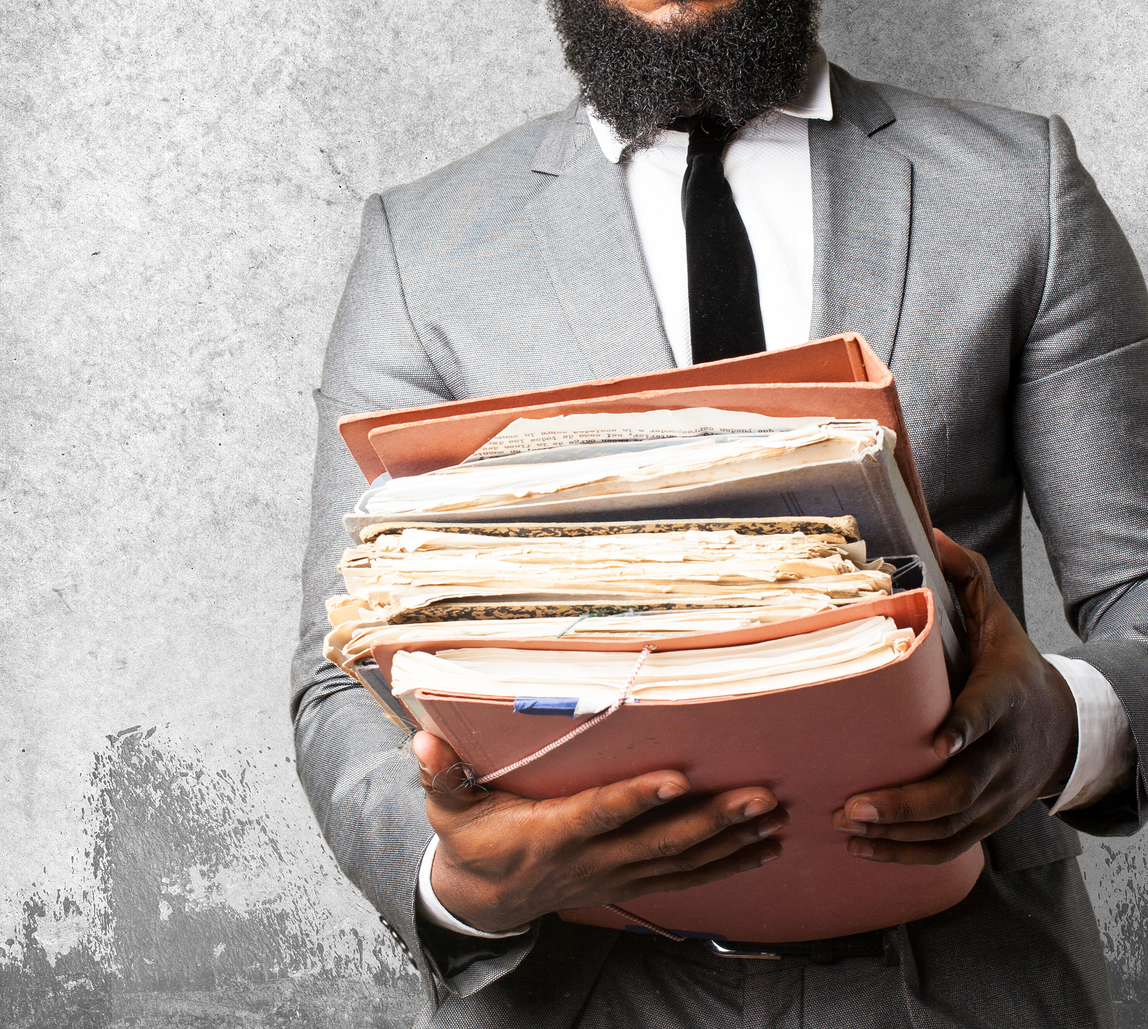
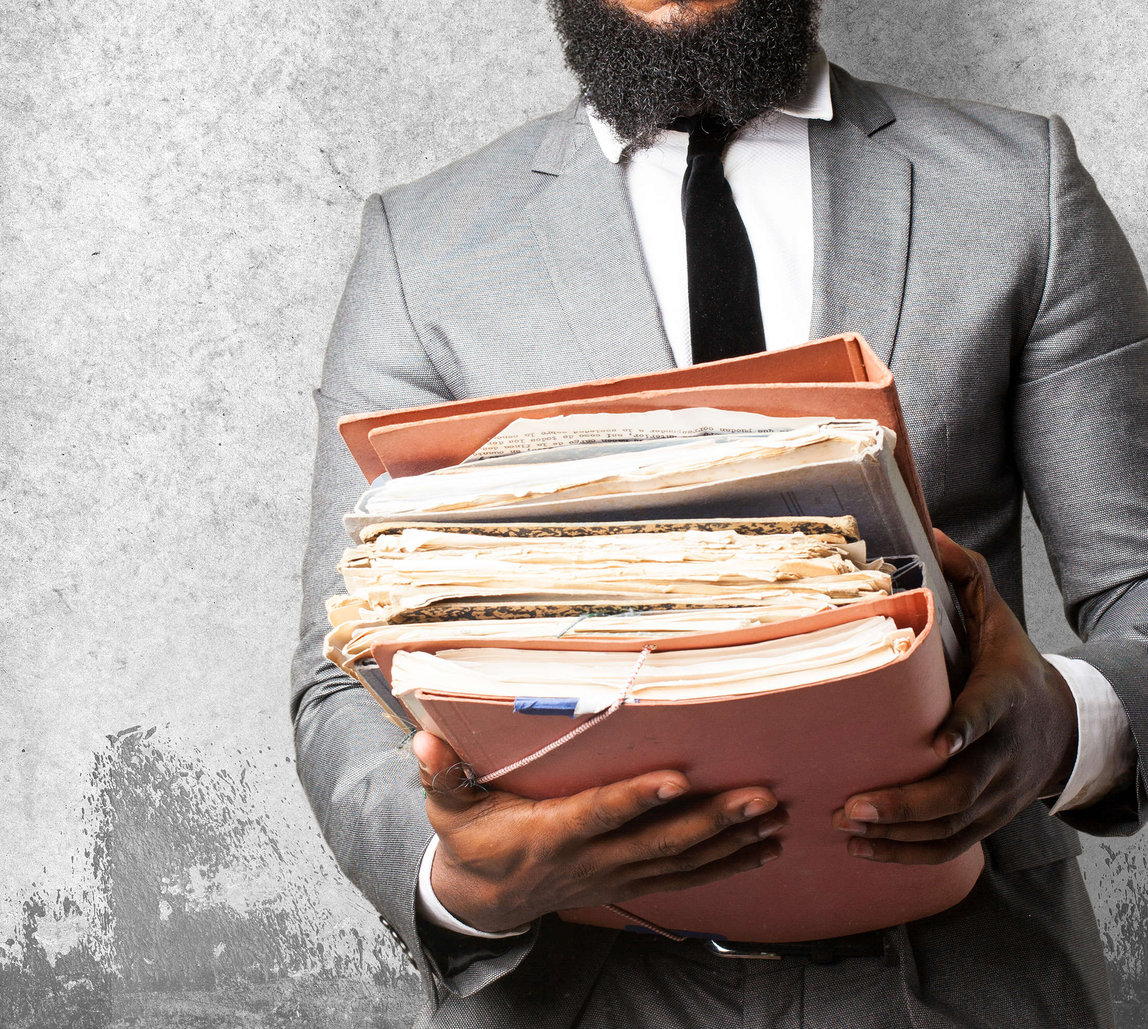
images processing was added

diff --git a/content/ua/blog/post-2.md b/content/ua/blog/post-2.md
@@ -2,9 +2,10 @@
 title: Стримування DDoS атак для краудфандингової ініціативи Canadian Bayraktar
 url: '/ua/blog/DDoS-attack-mitigation-for-Canadian-Bayraktar-crowdfunding-initiative'
 omit_header_text: false
-featured_image: '/blog-images/post-2-banner-5.png'
+featured_image: '/blog-images/post-2-banner.png'
 summary_image: '/blog-images/post-2-short.jpeg'
-date_prefix: 'Опубліковано #'
+alt: 'ілюстрація з Стримування DDoS атак для краудфандингової ініціативи Canadian Bayraktar'
+img_render_class: img-width-contain
 date: 2022-08-01
 
 ---

diff --git a/content/en/blog/post-2.md b/content/en/blog/post-2.md
@@ -2,9 +2,10 @@
 title: DDoS attack mitigation for Canadian Bayraktar crowdfunding initiative
 url: '/blog/DDoS-attack-mitigation-for-Canadian-Bayraktar-crowdfunding-initiative'
 omit_header_text: false
-featured_image: '/blog-images/post-2-banner-5.png'
+featured_image: '/blog-images/post-2-banner.png'
 summary_image: '/blog-images/post-2-short.jpeg'
-date_prefix: 'Published #'
+alt: 'image from DDoS attack mitigation for Canadian Bayraktar crowdfunding initiative'
+img_render_class: img-width-contain
 date: 2022-08-01
 
 ---

diff --git a/content/ua/blog/post-1.md b/content/ua/blog/post-1.md
@@ -4,7 +4,8 @@ url: '/ua/blog/2022-07-01-terraform-provider-for-freeipa-dns-management'
 omit_header_text: false
 featured_image: '/blog-images/post-1-banner.jpg'
 summary_image: '/blog-images/post-1-short.jpg'
-date_prefix: 'Опубліковано #'
+alt: 'ілюстрація з Terraform DNS провайдер для керування FreeIPA'
+img_render_class: img-width-contain
 date: 2022-07-01
 
 ---

diff --git a/content/en/blog/post-1.md b/content/en/blog/post-1.md
@@ -4,7 +4,8 @@ url: '/blog/2022-07-01-terraform-provider-for-freeipa-dns-management'
 omit_header_text: false
 featured_image: '/blog-images/post-1-banner.jpg'
 summary_image: '/blog-images/post-1-short.jpg'
-date_prefix: 'Published #'
+alt: 'image from Terraform DNS провайдер для керування FreeIPA'
+img_render_class: img-width-contain
 date: 2022-07-01
 
 ---

diff --git a/content/ua/page-case-studies/section-3.md b/content/ua/page-case-studies/section-3.md
@@ -1,6 +1,6 @@
 ---
 title: Недостатньо місця для зберігання даних
-section_image: '/content-images/case-studies-image-3.jpg'
+section_image: '/content-images/case-studies-image-3.webp'
 alt: "Lots papers folders"
 image_title: ""
 img_render_class: img-height-cover

diff --git a/content/en/page-case-studies/section-3.md b/content/en/page-case-studies/section-3.md
@@ -1,6 +1,6 @@
 ---
 title: Not enough storage space
-section_image: '/content-images/case-studies-image-3.jpg'
+section_image: '/content-images/case-studies-image-3.webp'
 alt: "Lots papers folders"
 image_title: ""
 img_render_class: img-height-cover
